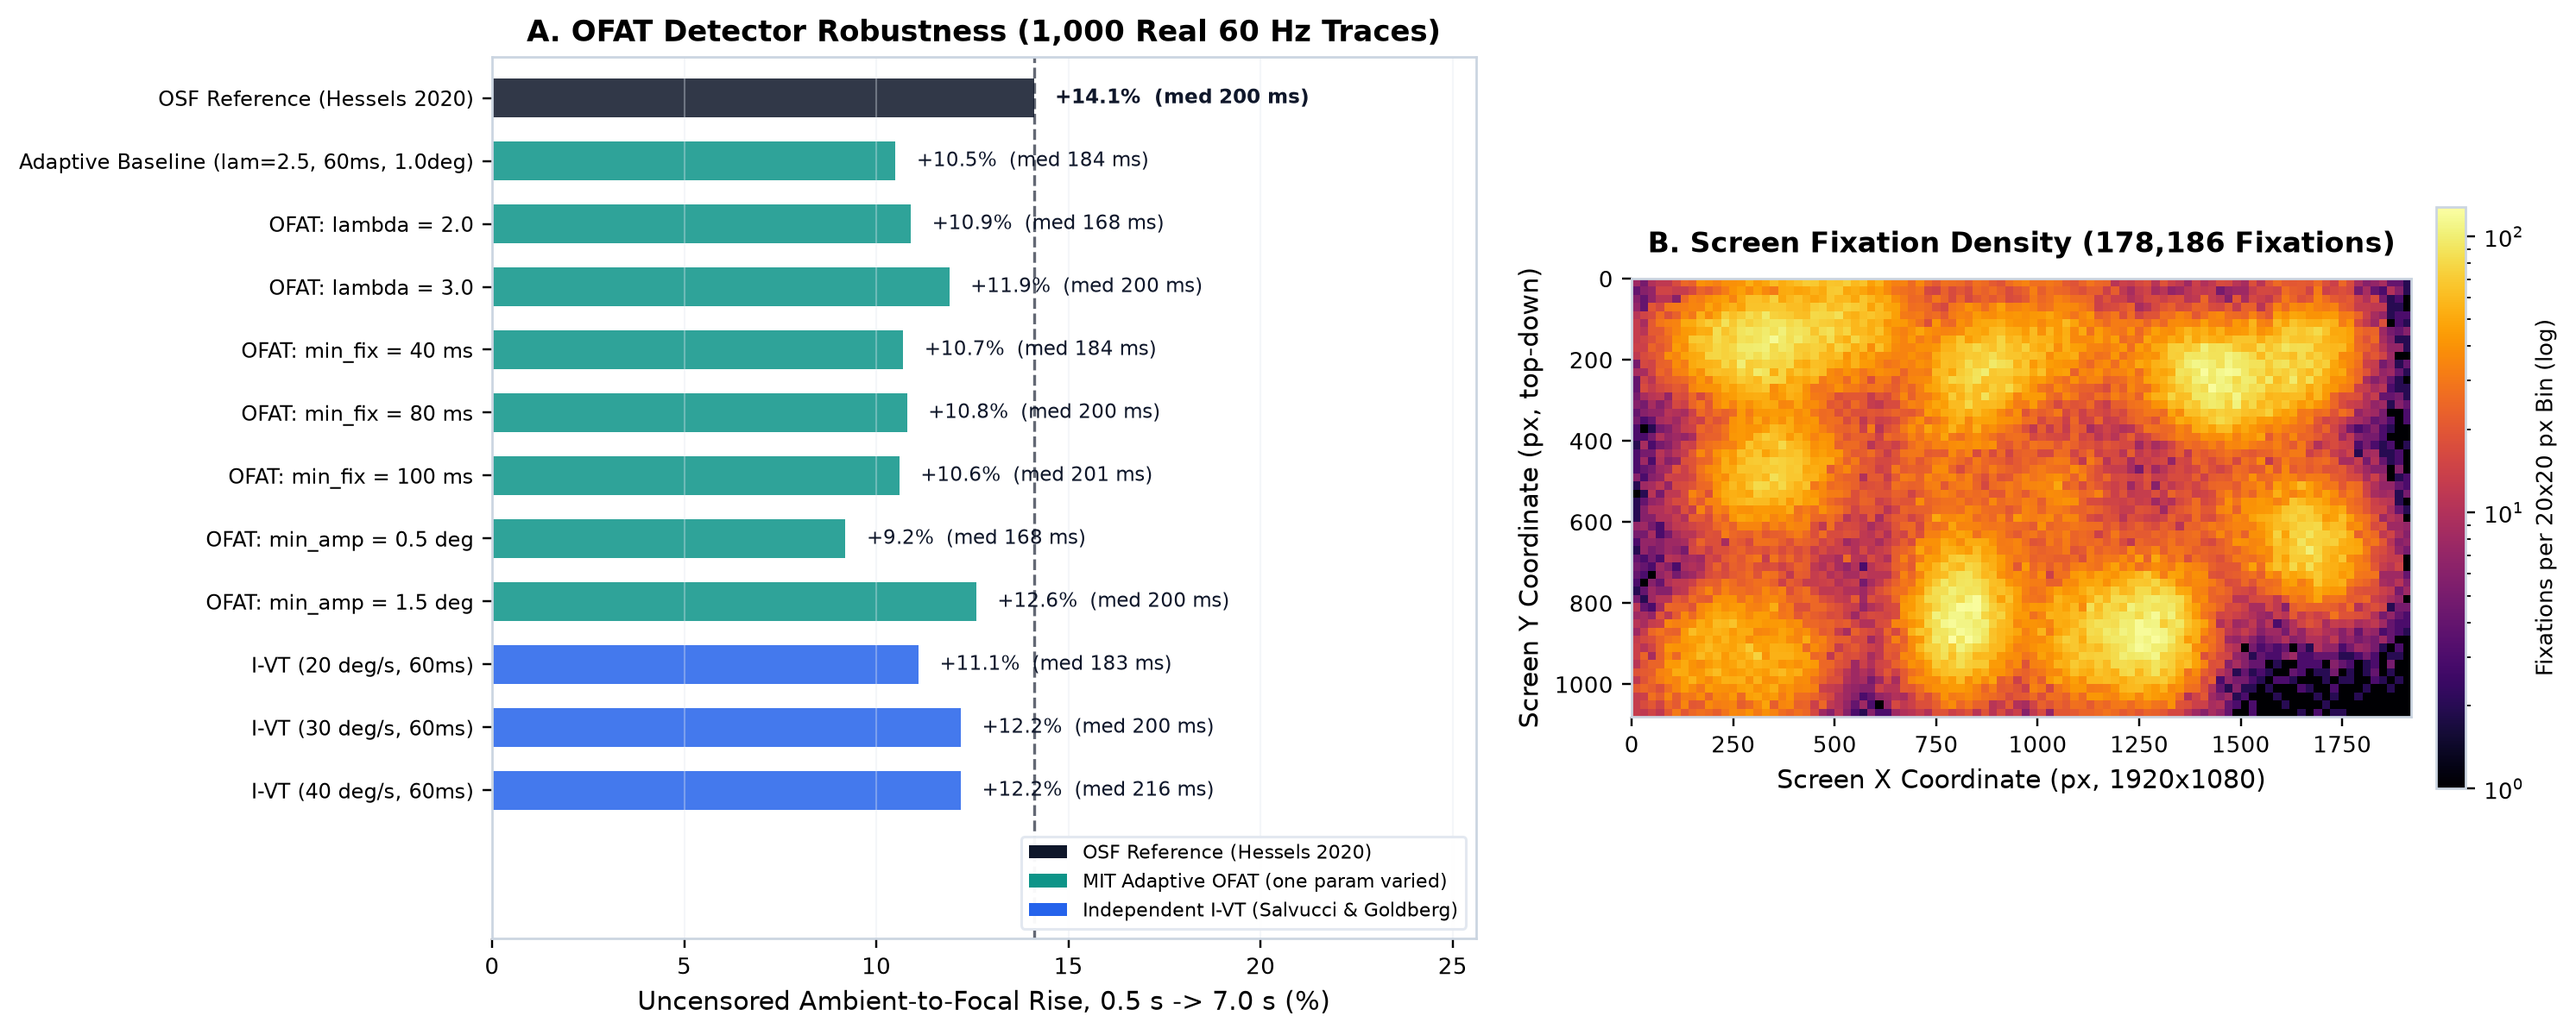
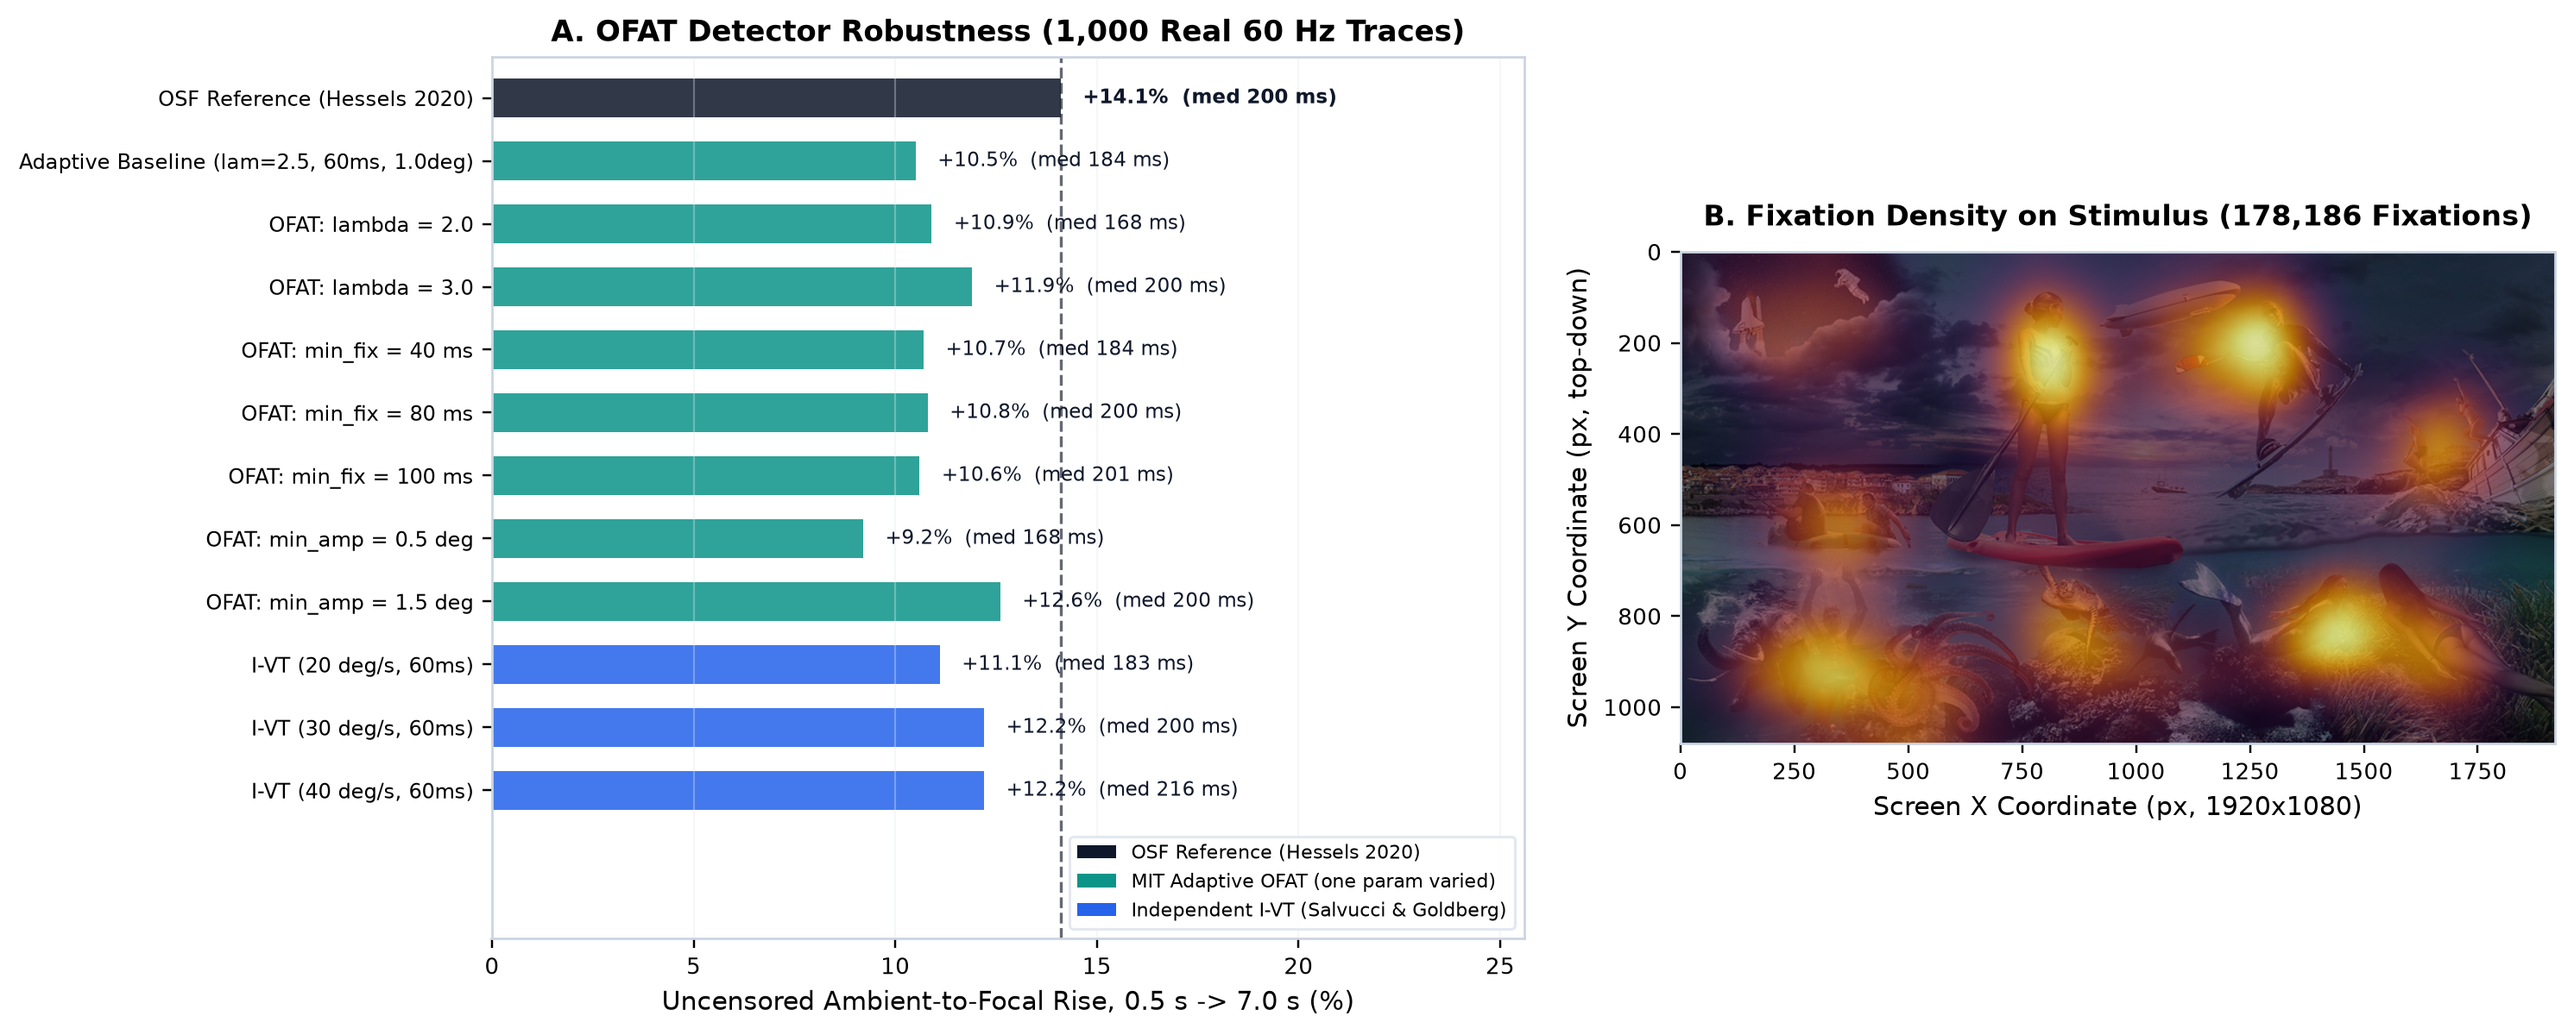
Add original NEMO stimulus + pixel-exact fixation overlay and fix y-axis screen alignment

diff --git a/src/run_analysis.py b/src/run_analysis.py
@@ -19,6 +19,8 @@ from pathlib import Path
 import numpy as np
 import pandas as pd
 from scipy import stats
+from scipy.ndimage import gaussian_filter
+from PIL import Image
 import matplotlib
 matplotlib.use("Agg")
 import matplotlib.pyplot as plt
@@ -43,6 +45,7 @@ RES_DIR = REPO_ROOT / "results"
 
 DEFAULT_ANALYSIS_DIR = REPO_ROOT.parent / "project" / "analysis"
 DEFAULT_PREPROC_DIR = REPO_ROOT.parent / "project" / "nemo_eyetracking" / "data" / "pre_processed_updated"
+DEFAULT_STIMULUS_IMG = REPO_ROOT.parent / "project" / "nemo_eyetracking" / "saleval" / "images" / "free_viewing_img_1080.png"
 
 # Editorial scientific color palette
 COL_DARK = "#0f172a"
@@ -732,9 +735,98 @@ def plot_temporal_dynamics_and_censoring(
     plt.close(fig)
 
 
+def _build_gaze_density_grid(df: pd.DataFrame, bins_x: int = 192, bins_y: int = 108) -> tuple[np.ndarray, int]:
+    """Compute screen-aligned 2D fixation density grid (top-down row order matching image pixels).
+
+    Note: compiled_fixations stores avg_y in bottom-left Cartesian screen pixels
+    (0 = bottom, 1080 = top), so y_top = SCREEN_H_PX - avg_y maps to image row coordinates.
+    """
+    in_screen = df[
+        df["avg_x"].between(0.0, SCREEN_W_PX) & df["avg_y"].between(0.0, SCREEN_H_PX)
+    ]
+    x_px = in_screen["avg_x"].to_numpy(float)
+    y_top = SCREEN_H_PX - in_screen["avg_y"].to_numpy(float)
+    h, _, _ = np.histogram2d(
+        x_px,
+        y_top,
+        bins=[bins_x, bins_y],
+        range=[[0.0, SCREEN_W_PX], [0.0, SCREEN_H_PX]],
+    )
+    return h.T, int(len(in_screen))
+
+
+def _load_stimulus_rgb(stimulus_img: Path | None) -> np.ndarray | None:
+    if stimulus_img is None or not stimulus_img.exists():
+        return None
+    return np.asarray(Image.open(stimulus_img).convert("RGB"))
+
+
+def _overlay_heatmap_on_stimulus(stim_rgb: np.ndarray, smooth_density: np.ndarray) -> np.ndarray:
+    """Blend an inferno fixation density heatmap cleanly over a dimmed stimulus image."""
+    # Resize smooth density to stimulus height x width cleanly via PIL bilinear
+    norm = smooth_density / max(float(smooth_density.max()), 1e-9)
+    norm_gamma = np.power(np.clip(norm, 0.0, 1.0), 0.72)
+    cmap = plt.get_cmap("inferno")
+    heat_rgba = cmap(norm_gamma)
+    heat_rgb = (heat_rgba[:, :, :3] * 255.0).astype(np.uint8)
+    heat_resized = np.asarray(
+        Image.fromarray(heat_rgb).resize((stim_rgb.shape[1], stim_rgb.shape[0]), Image.Resampling.BILINEAR),
+        dtype=float,
+    )
+    alpha_small = np.clip(norm_gamma * 0.88, 0.0, 0.85)
+    alpha_full = np.asarray(
+        Image.fromarray((alpha_small * 255.0).astype(np.uint8)).resize(
+            (stim_rgb.shape[1], stim_rgb.shape[0]), Image.Resampling.BILINEAR
+        ),
+        dtype=float,
+    )[..., None] / 255.0
+
+    # Slightly dim background stimulus where gaze is sparse so focal hotspots pop cleanly
+    gray = np.dot(stim_rgb[..., :3], [0.299, 0.587, 0.114])[..., None]
+    bg_muted = (0.55 * stim_rgb.astype(float) + 0.45 * gray) * 0.52
+    blended = bg_muted * (1.0 - alpha_full) + heat_resized * alpha_full
+    return np.clip(blended, 0, 255).astype(np.uint8)
+
+
+def plot_stimulus_and_gaze_overlay(df: pd.DataFrame, stimulus_img: Path | None) -> None:
+    """Figure 0 (1x2): Original NEMO free-viewing stimulus alongside 178k-fixation gaze overlay."""
+    stim_rgb = _load_stimulus_rgb(stimulus_img)
+    if stim_rgb is None:
+        return
+
+    grid, n_in = _build_gaze_density_grid(df, bins_x=192, bins_y=108)
+    smooth = gaussian_filter(grid, sigma=3.2)
+    blended = _overlay_heatmap_on_stimulus(stim_rgb, smooth)
+
+    fig, axes = plt.subplots(1, 2, figsize=(13.8, 4.55), dpi=220)
+    axes[0].imshow(stim_rgb)
+    axes[0].set_title("A. Original 10-Second Free-Viewing Stimulus (1920x1080)")
+    axes[0].set_xticks([])
+    axes[0].set_yticks([])
+
+    axes[1].imshow(blended)
+    axes[1].set_title(f"B. Empirical Fixation Density Overlay ({n_in:,} Fixations, n = 7,250)")
+    axes[1].set_xticks([])
+    axes[1].set_yticks([])
+
+    fig.text(
+        0.99,
+        0.012,
+        "Stimulus image: NEMO Science Museum Amsterdam free-viewing experiment (Strauch et al., 2023; OSF sk4fr)",
+        ha="right",
+        va="bottom",
+        fontsize=7.8,
+        color="#64748b",
+    )
+    fig.tight_layout(rect=[0, 0.04, 1, 1], pad=1.2)
+    fig.savefig(FIG_DIR / "stimulus_and_gaze_overlay.png", dpi=220, bbox_inches="tight")
+    plt.close(fig)
+
+
 def plot_ofat_and_spatial_gaze(
     df: pd.DataFrame,
     ofat_df: pd.DataFrame,
+    stimulus_img: Path | None = None,
 ) -> None:
     """Figure 4 (1x2): True OFAT Hessels + I-VT robustness + 2D screen fixation density map."""
     fig, axes = plt.subplots(1, 2, figsize=(13.8, 5.7), dpi=220, gridspec_kw={"width_ratios": [1.18, 1.0]})
@@ -746,7 +838,7 @@ def plot_ofat_and_spatial_gaze(
         fam_colors = {"Reference": COL_DARK, "Adaptive": COL_TEAL, "I-VT": COL_BLUE}
         cols = [fam_colors.get(f, COL_SLATE) for f in ofat_df["detector_family"]]
 
-        bars = ax.barh(y_pos, ofat_df["onset_05_to_70_rise_pct"], height=0.62, color=cols, alpha=0.86)
+        ax.barh(y_pos, ofat_df["onset_05_to_70_rise_pct"], height=0.62, color=cols, alpha=0.86)
         ax.axvline(float(ofat_df.iloc[0]["onset_05_to_70_rise_pct"]), color=COL_DARK, ls="--", lw=1.1, alpha=0.65)
         for yp, row in zip(y_pos, ofat_df.itertuples()):
             ax.text(
@@ -768,7 +860,6 @@ def plot_ofat_and_spatial_gaze(
         ax.set_title("A. OFAT Detector Robustness (1,000 Real 60 Hz Traces)")
         ax.grid(True, axis="x", alpha=0.35)
 
-        # Clean custom legend sitting in reserved space below bottom bar
         from matplotlib.patches import Patch
         ax.legend(
             handles=[
@@ -781,29 +872,28 @@ def plot_ofat_and_spatial_gaze(
             framealpha=0.96,
         )
 
-    # Panel B: 2D Spatial Fixation Density on 1920 x 1080 stimulus screen
+    # Panel B: 2D Spatial Fixation Density aligned right-side-up on 1920 x 1080 stimulus screen
     ax2 = axes[1]
-    ax2.set_facecolor("#000004")
-    in_screen = df[
-        df["avg_x"].between(0.0, SCREEN_W_PX) & df["avg_y"].between(0.0, SCREEN_H_PX)
-    ]
-    h, xedges, yedges = np.histogram2d(
-        in_screen["avg_x"].to_numpy(),
-        in_screen["avg_y"].to_numpy(),
-        bins=[96, 54],
-        range=[[0.0, SCREEN_W_PX], [0.0, SCREEN_H_PX]],
-    )
-    im = ax2.imshow(
-        np.maximum(h.T, 0.5),
-        origin="upper",
-        extent=[0, SCREEN_W_PX, SCREEN_H_PX, 0],
-        cmap="inferno",
-        norm=LogNorm(vmin=1.0, vmax=max(10.0, float(h.max()))),
-        aspect="equal",
-    )
-    cbar = fig.colorbar(im, ax=ax2, fraction=0.035, pad=0.03, shrink=0.66)
-    cbar.set_label("Fixations per 20x20 px Bin (log)", fontsize=8.4)
-    ax2.set_title(f"B. Screen Fixation Density ({len(in_screen):,} Fixations)", fontsize=10.8, pad=10)
+    stim_rgb = _load_stimulus_rgb(stimulus_img)
+    grid, n_in = _build_gaze_density_grid(df, bins_x=192, bins_y=108)
+    if stim_rgb is not None:
+        smooth = gaussian_filter(grid, sigma=3.2)
+        blended = _overlay_heatmap_on_stimulus(stim_rgb, smooth)
+        ax2.imshow(blended, extent=[0, SCREEN_W_PX, SCREEN_H_PX, 0], aspect="equal")
+        ax2.set_title(f"B. Fixation Density on Stimulus ({n_in:,} Fixations)", fontsize=10.8, pad=10)
+    else:
+        ax2.set_facecolor("#000004")
+        im = ax2.imshow(
+            np.maximum(grid, 0.5),
+            origin="upper",
+            extent=[0, SCREEN_W_PX, SCREEN_H_PX, 0],
+            cmap="inferno",
+            norm=LogNorm(vmin=1.0, vmax=max(10.0, float(grid.max()))),
+            aspect="equal",
+        )
+        cbar = fig.colorbar(im, ax=ax2, fraction=0.035, pad=0.03, shrink=0.66)
+        cbar.set_label("Fixations per 10x10 px Bin (log)", fontsize=8.4)
+        ax2.set_title(f"B. Screen Fixation Density ({n_in:,} Fixations)", fontsize=10.8, pad=10)
     ax2.set_xlabel("Screen X Coordinate (px, 1920x1080)")
     ax2.set_ylabel("Screen Y Coordinate (px, top-down)")
     ax2.set_xlim(0, SCREEN_W_PX)
@@ -817,6 +907,7 @@ def plot_ofat_and_spatial_gaze(
 def run_all(
     analysis_dir: Path = DEFAULT_ANALYSIS_DIR,
     preproc_dir: Path = DEFAULT_PREPROC_DIR,
+    stimulus_img: Path | None = DEFAULT_STIMULUS_IMG,
     ofat_n: int = 1000,
     reuse_ofat: bool = False,
 ) -> None:
@@ -866,24 +957,27 @@ def run_all(
         if len(ofat_df):
             ofat_df.to_csv(ofat_csv, index=False)
 
-    # 5. Generate all 4 publication-grade figures
+    # 5. Generate all 5 publication-grade figures (including stimulus + empirical gaze overlay)
+    plot_stimulus_and_gaze_overlay(df, stimulus_img)
     plot_data_audit_and_diagnostics(df, raw_lmm, cohort_artifacts["all_uncensored"]["reml"])
     plot_age_lifespan_analysis(df, cohort_artifacts)
     plot_temporal_dynamics_and_censoring(df, cohort_artifacts)
-    plot_ofat_and_spatial_gaze(df, ofat_df)
-    print("\nSaved all CSV tables and 4 diagnostic figures successfully.", flush=True)
+    plot_ofat_and_spatial_gaze(df, ofat_df, stimulus_img=stimulus_img)
+    print("\nSaved all CSV tables and diagnostic figures successfully.", flush=True)
 
 
 def main() -> None:
     parser = argparse.ArgumentParser(description="Run NEMO eye-tracking fixation analysis and OFAT robustness.")
     parser.add_argument("--data-dir", type=Path, default=DEFAULT_ANALYSIS_DIR, help="Directory with compiled_fixations.csv & participant_info.csv")
     parser.add_argument("--preproc-dir", type=Path, default=DEFAULT_PREPROC_DIR, help="Directory with 60 Hz pre-processed gaze CSVs")
+    parser.add_argument("--stimulus-img", type=Path, default=DEFAULT_STIMULUS_IMG, help="Path to NEMO free_viewing_img_1080.png stimulus")
     parser.add_argument("--ofat-n", type=int, default=1000, help="Number of stratified 60 Hz traces for OFAT sweep")
     parser.add_argument("--reuse-ofat", action="store_true", help="Reuse existing results/ofat_robustness.csv instead of re-parsing 60 Hz traces")
     args = parser.parse_args()
     run_all(
         analysis_dir=args.data_dir,
         preproc_dir=args.preproc_dir,
+        stimulus_img=args.stimulus_img,
         ofat_n=args.ofat_n,
         reuse_ofat=args.reuse_ofat,
     )

diff --git a/README.md b/README.md
@@ -4,7 +4,7 @@ Statistical modeling, diagnostic audit, and fixation-detector sensitivity study 
 
 Originated as Case Study 1 in the M.Sc. Data Science *Case Studies* course at TU Dortmund University (Prof. Dr. Paul Bürkner & Dr. Šimon Kucharský, Winter Term 2024/25, Group 5) and subsequently refactored into a clean, unit-tested Python pipeline incorporating every methodological review point: auditing a hidden kiosk birth-year default artifact (`DoB = 2000`), replacing skewed raw-scale models with an exact REML/ML Log-Normal Linear Mixed-Effects solver (`src/lmm.py`), separating continuous trial-time dynamics from fixation-order survivorship bias and 10-second right-censoring, and running a true One-Factor-At-a-Time (OFAT) + independent I-VT detector robustness study on `1,000` real `60 Hz` gaze traces.
 
-![Continuous trial-time ambient-to-focal curve, 10s right-censoring, and fixation-order survivorship bias](https://raw.githubusercontent.com/r-a-j/Eye-Tracking-Fixations/main/figures/temporal_dynamics_and_censoring.png)
+![Original NEMO free-viewing stimulus alongside empirical gaze density overlay across 178,186 fixations](https://raw.githubusercontent.com/r-a-j/Eye-Tracking-Fixations/main/figures/stimulus_and_gaze_overlay.png)
 
 ---
 
@@ -15,6 +15,8 @@ Originated as Case Study 1 in the M.Sc. Data Science *Case Studies* course at TU
 2. **Temporal Dynamics Over the 10-Second Trial:** *Do fixation durations change systematically over the course of viewing?*
    - **Finding:** **Strong non-linear ambient-to-focal rise followed by a plateau** (consistent with Unema et al., 2005 and Nuthmann et al., 2010). Over the uncensored interior (`onset <= 8.0 s`, where `>99%` of fixations finish naturally), predicted median duration rises **`+14.5%`** from `199.2 ms` (`0.5 s`) to `228.2 ms` (`7.0 s`) before plateauing ($\chi^2 = 1{,}156.2, df = 5, p = 9.2 \times 10^{-248}$; non-linearity vs. linear $\chi^2 = 60.1, p = 2.7 \times 10^{-12}$).
    - **Two critical measurement artifacts exposed:** Naive plots against *fixation order* dip sharply after Order 22 because only fast-saccading viewers can pack 25 to 36 fixations into a 10-second trial (survivorship/selection bias). Similarly, naive fits over all `0-10 s` plunge after `8.5 s` due to hard right-censoring at the 10-second stimulus cutoff (`52.5%` final fixations in `9.0-9.5 s`, `96.9%` in `9.5-10.0 s`).
+
+![Continuous trial-time ambient-to-focal curve, 10s right-censoring, and fixation-order survivorship bias](https://raw.githubusercontent.com/r-a-j/Eye-Tracking-Fixations/main/figures/temporal_dynamics_and_censoring.png)
 
 ---
 
